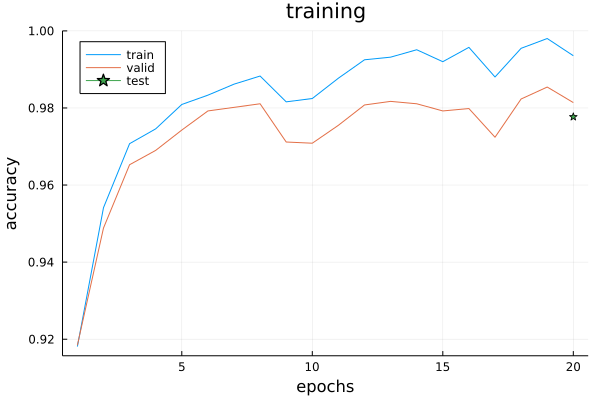
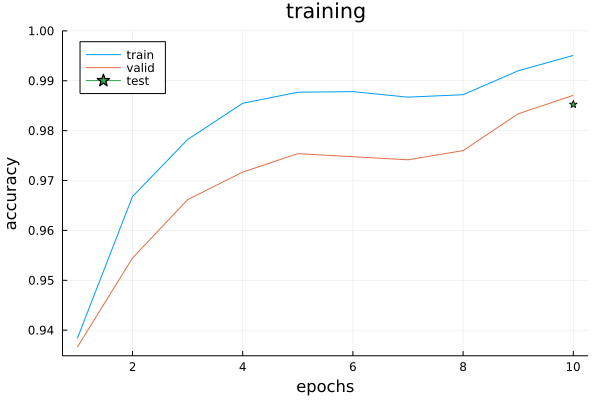
Minor changes and typo fixes

diff --git a/_posts/2021-08-11-sudoku-reader-part3-digits.md b/_posts/2021-08-11-sudoku-reader-part3-digits.md
@@ -80,15 +80,14 @@ function four_point_transform(image::AbstractArray, corners::AbstractVector)
     maxWidth = destination[2][1] - destination[1][1] 
     maxHeight = destination[3][2] - destination[2][2] 
 
-    M = getPerspectiveMatrix(quad, destination)
+    M = get_perspective_matrix(quad, destination)
     invM = inv(M)
-    transform = perspective_transform(invM)
 
-    warped = warp(image, transform, (1:maxWidth, 1:maxHeight))
+    warped = warp(image, perspective_transform(invM), (1:maxWidth, 1:maxHeight))
     warped, invM
 end
 {% endhighlight %}  
-We need to return the inverse matrix because it is needed for projecting text back on to the grid, which we will do in [part 5][conclusion].
+We need to return the inverse matrix because it is needed for projecting text back on to the grid, which we will do in [part 5][conclusion]. The function `get_perspective_matrix` is detailed in the <b>more detail</b> block below.
 
 
 I've built the `perspective_transform` function with the function composition notation of CoordinateTransformations.jl as follows:
@@ -98,8 +97,8 @@ perspective_transform(M::Matrix) = PerspectiveMap() ∘ LinearMap(M) ∘ extend1
 {% endhighlight %}  
 It is mathematically equivalent to:
 {%highlight julia %}
-function perspective_transform(v::SVector) 
-    U = invM * [v[1], v[2], 1]
+function perspective_transform(v::SVector, M::Matrix) 
+    U = M * [v[1], v[2], 1]
     scale = 1/U[3]
     [U[1] * scale, U[2] * scale]
 end
@@ -124,8 +123,9 @@ Here is the result of the warping:
 <div class="collapse" id="HomographyMatrix">
   <div class="card card-body ">
   
-There is a function I've used in <code>four_point_transform</code> called <code>get_perspective_matrix</code>. This is one I had to write myself, whereas in the Python version it comes with OpenCV. To explain it, I am going to have to explain further what the above code is doing.
-To do that properly, I would need to explain pinhole cameras, projection matrices, rotation matrices and more. Here is a source which does that: <a style="text-decoration:underline" href="https://towardsdatascience.com/estimating-a-homography-matrix-522c70ec4b2c">estimating a homography matrix.</a> 
+
+OpenCV comes with a fuction called <code>getPerspectiveTransform</code>. I had to write the Julia version of this myself.
+To explain it properly, I would need to explain pinhole cameras, projection matrices, rotation matrices and more. Here is a source which does that: <a style="text-decoration:underline" href="https://towardsdatascience.com/estimating-a-homography-matrix-522c70ec4b2c">estimating a homography matrix.</a> 
 For now, all I am going to say is that the calculations reduce to multiplication of every pixel with a special matrix called a homography matrix:
 
 $$
@@ -193,7 +193,7 @@ $$
 
 Here is the code:
 {%highlight julia %}
-function getPerspectiveMatrix(source::AbstractArray, destination::AbstractArray)
+function get_perspective_matrix(source::AbstractArray, destination::AbstractArray)
     if (length(source) != length(destination))
         error("$(length(source))!=$(length(destination)). Source must have the same number of points as destination")
     elseif length(source) < 4
@@ -231,7 +231,7 @@ end
 
 <p>
 Now that we have our matrix, we have a problem: our matrix won't map a set of discrete pixels to another set of discrete pixels. Thankfully the package ImageTransformations.jl handles this for us.
-It uses the backwards algorithm: instead of warping our pixels to the rectangle, it warps pixels back from the rectangle to quadrilateral, and then interpolates a colour from the nearby pixels it lands in. This is why the <code>perspective_transform</code> function uses the inverse matrix <code>invM</code>.
+It uses the backwards algorithm: instead of warping our pixels to the rectangle, it warps pixels back from the rectangle to the quadrilateral, and then interpolates a colour from the nearby pixels it lands in. This is why the <code>perspective_transform</code> function uses the inverse matrix <code>invM</code>.
 </p>
 
 <p>
@@ -385,10 +385,9 @@ function extract_digit(
     threshold::Float64=0.02
     )
     
-    bw_threshold = 0.9
-    image = copy(image_in)
-    image[image .< bw_threshold ] .= 0
-    image[image .> bw_threshold ] .= 1
+    image = copy(image_in) 
+    # have to binarize again because of warping
+    image = binarize(image, Polysegment()) # global binarization algorithm for foreground and background
 
     labels = label_components(image) 
 

diff --git a/_posts/2021-08-11-sudoku-reader-part4-cnn.md b/_posts/2021-08-11-sudoku-reader-part4-cnn.md
@@ -91,13 +91,14 @@ Training the model on the Char74k removed this problem.
 
 Going the other way, the a model trained on the Char74k dataset to a 99.1% test accuracy only achieved a 54.1% accuracy on the MNIST data. I found this acceptable because the target is computer fonts not handwritten digits. Its overall performance with the Sudoku images was much better.
 
-Another strategy is to train on both: 10,000 Char74k figures and 10,000 MNIST figures. This model seems to work better on some edge cases in the Sudoku images.
+Another strategy is to train on both: 10,000 Char74k figures and 10,000 MNIST figures. 
 The model has a test accuracy of 98.1%. For the separate datasets (train+test) it is 99.4% on the Char74k data and 98.8% on the MNIST data.
 A flaw of this model is that 42 times it confused 2s for 7s. (Out of 4000 2s and 7s that is acceptable.) Otherwise the second largest value in the confusion matrix (off diagonal) was 12. 
+Overall, this model seems to perform slighlty worse on the Sudoku images.
 
 ## Models
 
-I eventually used the [LeNet5][LeNet5] model originally published in 1998. It has architecture is as follows:
+I eventually used the [LeNet5][LeNet5] model originally published in 1998. Its architecture is as follows:
 <figure class="post-figure">
 <img class="img-95"
     src="/assets/posts/sudoku-reader/LeNet5.png"
@@ -238,9 +239,9 @@ Julia is a young language and is still short on resources and tutorials for Flux
 [Adams]: https://spcman.github.io/getting-to-know-julia/deep-learning/vision/flux-cnn-zoo/
 [Fitzgerald]: http://webpages.csus.edu/fitzgerald/julia-convolutional-neural-network-MNIST-explained/
 
-Firstly these are all the imports we will need:
+I used the digits from the [Char74k][Char74k] dataset, specifically Sample001-Sample010 in EnglishFnt.tgz.
 It is useful to convert the Char74k dataset to the MNIST format so the same model can be used for both datasets.
-Here is that code
+This script will do that (be sure to have the correct `inpath` for your data):
 {% highlight Julia %}
 using FileIO
 using Images
@@ -288,7 +289,7 @@ using Printf
 I also wrote a few helper functions at [ml_utils.jl](https://github.com/LiorSinai/SudokuReader.jl/blob/main/DigitDetection/ml_utils.jl). For example, here is the function to load the data:
 {% highlight Julia %}
 function load_data(inpath)
-    # data is images within a folder with name dir/label/filename.png
+    # data is images within a folder with name inpath/label/filename.png
     digits = [0, 1, 2, 3, 4, 5, 6, 7, 8, 9]
 
     data = Array{Float32, 3}[] # Flux expects Float32 only, else raises a warning
@@ -435,10 +436,7 @@ function train!(loss, ps, train_data, opt, acc, valid_data; n_epochs=100)
     for e in 1:n_epochs
         print("$e ")
         ps = Flux.Params(ps)
-        idx_batch = 0
-
         for batch_ in train_data
-            idx_batch += 1
             gs = gradient(ps) do
                 loss(batch_...)
             end
@@ -446,7 +444,7 @@ function train!(loss, ps, train_data, opt, acc, valid_data; n_epochs=100)
             print('.')
         end
         # update history
-        train_acc = 0
+        train_acc = 0.0
         n_samples = 0
         for batch_ in train_data
             train_acc += sum(onecold(model(batch_[1])) .== onecold(batch_[2]))
@@ -475,7 +473,7 @@ println("done training")
 @printf "time taken: %.2fs\n" end_time/1e9
 {% endhighlight %}
 
-Here is an example of the training history for LeNet5 trained on both datasets (20,000 samples per epoch):
+Here is an example of the training history for LeNet5 trained on the Char74k dataset:
 <figure class="post-figure">
 <img class="img-95"
     src="/assets/posts/sudoku-reader/history.png"

diff --git a/_posts/2021-08-10-sudoku-reader-part1-intro.md b/_posts/2021-08-10-sudoku-reader-part1-intro.md
@@ -122,7 +122,7 @@ I have written code with TensorFlow, PyTorch and MXNet, and I can easily say Flu
     src="/assets/posts/sudoku-reader/onecold.png"
 	alt="Flux onecold definition"
 	>
-<figcaption>Simple functionality like this that can be taken for granted in Julia simply doesn't exist in Python, because the underlying code is often not written in Python.</figcaption>
+<figcaption>Simple functionality like this that can be taken for granted in Julia often simply doesn't exist in Python, because the underlying code is not written in Python.</figcaption>
 </figure>
 
 A big advantage of the Julia packages is that they are entirely written in Julia.
@@ -230,7 +230,7 @@ There are few large monolithic  packages in Julia. Even the popular packages lik
 
 Julia is built to be modular and to have small packages and it's great. 
 I don't think Python's approach is wrong, but there are definite advantages to Julia's approach in this modern, open-source world.
-I think it is this single reason, more than Julia's speed or slow compile times, more than its syntax and design and compiler and metaprogramming and other features, that will ultimately be the reason Julia one day overtakes Python.
+I think it is this single reason, more than Julia's speed, more than its syntax and design and compiler and metaprogramming and other features, that will ultimately be the reason Julia one day overtakes Python.
 
 One last thing.
 There is a negative aspect to this sharing: packages don't always "play nice" so that they can easily integrate with other packages. For example packages should abide by the following etiquette:

diff --git a/_posts/2021-08-11-sudoku-reader-part5.md b/_posts/2021-08-11-sudoku-reader-part5.md
@@ -72,7 +72,7 @@ grid, centres, probs = read_digits(
 The softmax probability is a useful proxy for how confident the model is in its prediction. On the training data, the confidence for correct predictions is 100%.
 
 {% highlight julia %}
-function prediction(model, image::AbstractArray, pad_ratio=0.2)
+function prediction(model, image::AbstractArray, pad_ratio=0.1)
     image = pad_image(image, pad_ratio=pad_ratio)
     image = imresize(image, (28, 28))
     x = batch([unsqueeze(Float32.(image), 3)])
